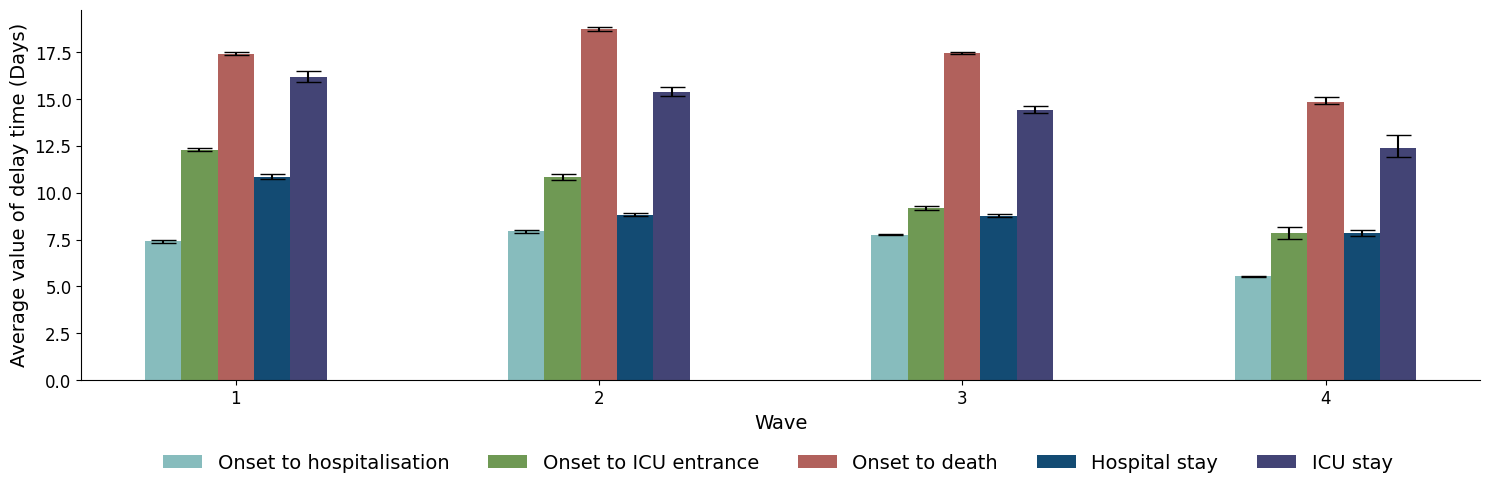
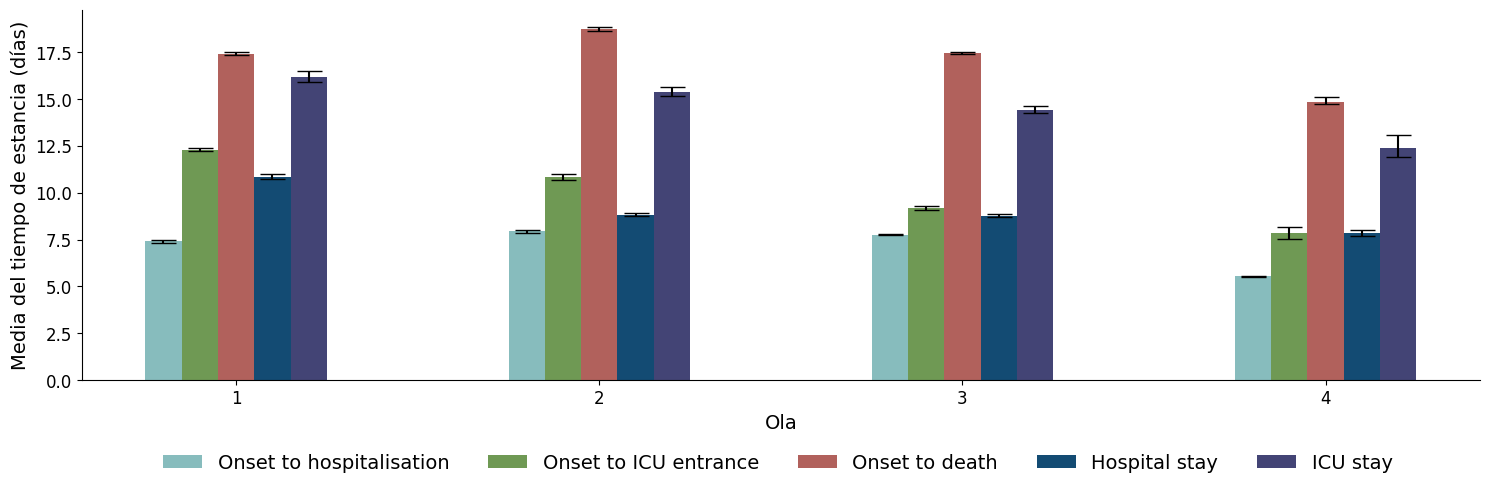
translate images from english to spanish

Changed region(s): [[0.0, 0.0306, 0.0618, 0.7653], [0.4943, 0.8265, 0.5561, 0.8878], [0.0309, 0.7653, 0.0618, 0.7959]]

diff --git a/plots/overview.py b/plots/overview.py
@@ -55,11 +55,11 @@ df_prop = pd.crosstab(index=df_confirmed_bogota['age_group'],
                             columns=df_confirmed_bogota['sex'],
                             normalize="index")*100                
 def plot_pyramid(ax):
-        hist_f = ax.barh(df_female['age_group'], -df_female['counts'], align='center', label='female')
-        hist_m = ax.barh(df_male['age_group'], df_male['counts'], align='center', label='male')
+        hist_f = ax.barh(df_female['age_group'], -df_female['counts'], align='center', label='mujeres')
+        hist_m = ax.barh(df_male['age_group'], df_male['counts'], align='center', label='hombres')
 
-        ax.bar_label(hist_m, labels=['{:.1f}%'.format(prop) for prop in df_prop['M'].round(1)], label_type='edge')
-        ax.bar_label(hist_f, labels=['{:.1f}%'.format(prop) for prop in df_prop['F'].round(1)], label_type='edge')
+        ax.bar_label(hist_m, labels=['{:.1f}%'.format(prop) for prop in df_prop['M'].round(1)], label_type='edge', fontsize = 9)
+        ax.bar_label(hist_f, labels=['{:.1f}%'.format(prop) for prop in df_prop['F'].round(1)], label_type='edge', fontsize = 9)
 
         ticks =  ax.get_xticks()
         ax.set_xticklabels([int(abs(tick)) for tick in ticks])
@@ -83,22 +83,22 @@ df_deaths_60p = ut.counts(df[mask_death & mask_60p], var='death',columns=['date'
 df_deaths_60p['deaths_cum'] = df_deaths_60p['deaths'].cumsum().values
 
 def plot_cases_death_cum(ax):
-        ln1 = ax.plot(df_cases_all['date'], df_cases_all['cases'], label='cases all')
-        ln2 = ax.plot(df_cases_60p['date'], df_cases_60p['cases'], label='cases 60+')
+        ln1 = ax.plot(df_cases_all['date'], df_cases_all['cases'], label='casos - todos')
+        ln2 = ax.plot(df_cases_60p['date'], df_cases_60p['cases'], label='casos - 60+')
 
         # fig, ax2 =plt.subplots(figsize=(7.5, 5))
         ax_twin = ax.twinx()
 
-        ln3 = ax_twin.plot(df_deaths_all['date'], df_deaths_all['deaths_cum'], label='cumulative deaths all', linestyle='dashed')
-        ln4 = ax_twin.plot(df_deaths_60p['date'], df_deaths_60p['deaths_cum'], label='cumulative deaths 60+', linestyle='dashed')
+        ln3 = ax_twin.plot(df_deaths_all['date'], df_deaths_all['deaths_cum'], label='fallecimientos acum - todos', linestyle='dashed')
+        ln4 = ax_twin.plot(df_deaths_60p['date'], df_deaths_60p['deaths_cum'], label='fallecimientos acum - 60+', linestyle='dashed')
 
         lns = ln1 + ln2 + ln3 + ln4
         labs = [l.get_label() for l in lns]
 
         ax.tick_params(axis='x', rotation=90)
-        ax.set_ylabel('Confirmed cases')
+        ax.set_ylabel('Casos confirmados')
 
-        ax_twin.legend(lns, labs, loc='upper left', frameon=False, fontsize=10)
+        ax_twin.legend(lns, labs, loc='upper left', frameon=False, fontsize=9)
         ax_twin.spines.right.set_visible(True) #This was set as False by default in the .mpstyle file
         ax_twin.tick_params(axis='x', rotation=90)
-        ax_twin.set_ylabel('Deaths')
+        ax_twin.set_ylabel('Fallecimientos')

diff --git a/plots/results_severe_outcomes.py b/plots/results_severe_outcomes.py
@@ -38,7 +38,7 @@ df_ratios = df_ratios[~df_ratios['age_group'].isin(['all'])].sort_values(by = ['
 # Auxiliar plot function
 def plot_xyvar(df, ax, n_strat, varx='age_group', vary='percentage'):
     data = df.loc[df[strat]==n_strat]
-    ax.plot(data[varx], data[vary], label=strat+str(n_strat), ls = '-', marker = ".", lw = 1)
+    ax.plot(data[varx], data[vary], label='ola '+str(n_strat), ls = '-', marker = ".", lw = 1)
 
 # Wave cases percentage distribution by age group
 def plot_percentage(ax):
@@ -54,8 +54,8 @@ def plot_counts(ax):
     strat_list = df_ratios[strat].unique()
     for axi in ax:
         axi.tick_params(axis='x', labelrotation=90)
-        axi.set_ylabel('cases')
-        axi.set_xlabel('age group')
+        axi.set_ylabel('casos')
+        axi.set_xlabel('grupo de edad')
     for wave in strat_list:
         plot_xyvar(df_ratios[[strat, 'age_group','hosp']], ax=ax[0], n_strat=wave, vary='hosp')
         plot_xyvar(df_ratios[[strat, 'age_group', 'icu']], ax=ax[1], n_strat=wave, vary='icu')
@@ -123,9 +123,9 @@ def plot_ratios(ax, var, var_name):
         ratio_upper = df_temp[var+'_upper'] - ratio
         yerr = np.array(list(zip(ratio_lower, ratio_upper))).T
         ax.errorbar(df_temp['age_group'], df_temp[var], yerr = yerr,
-                    fmt='o', color = colors[wave-1], label = 'wave '+str(wave),
+                    fmt='o', color = colors[wave-1], label = 'ola '+str(wave),
                     capsize = 5, ls = '-', marker = ".", lw = 1)
-    ax.set_xlabel('age group')
+    ax.set_xlabel('grupo de edad')
     ax.set_ylabel(var_name)
 
 # Plot variable with error bar
@@ -137,7 +137,7 @@ def plot_var_err(df, axi, var):
         data_upper = df_temp[var + '_upper'] - data
         yerr = np.array(list(zip(data_lower, data_upper))).T
         axi.errorbar(df_temp['age_group'], df_temp[var], yerr = yerr,
-                     fmt='o', color = colors[wave-1], label = 'wave '+str(wave),
+                     fmt='o', color = colors[wave-1], label = 'ola '+str(wave),
                      capsize = 5, ls = '-', marker = ".", lw = 1)
         
 # Plot percentages with erros

diff --git a/plots/results_waves.py b/plots/results_waves.py
@@ -47,21 +47,21 @@ df_counts['cases_gs_diff_gs'] = ut.gaussian_smoothing(df_counts, 'cases_gs_diff'
 # Function to plot waves figure
 def plot_waves(ax):
     # Confirmed cases curve
-    ln1 = ax.plot(df_counts['date'], df_counts['cases'], color = colors[0], label = 'confirmed cases')
+    ln1 = ax.plot(df_counts['date'], df_counts['cases'], color = colors[0], label = 'casos confirmados')
     ln2 = ax.plot(df_counts['date'], df_counts['cases_gs'], color= colors[2], ls = '--')
     date_no_dup = []
     for d in range(len(df_waves)):
             ax.axvline(x = df_waves['start_date'].iloc[d], color = 'black', alpha = 0.8, ls = '--')
             ax.axvline(x = df_waves['end_date'].iloc[d], color = 'black', alpha = 0.8, ls = '--')
             date_no_dup.append(d)
-    ax.set_ylabel('Confirmed cases')
+    ax.set_ylabel('Casos confirmados')
     # First difference plot
     ax2 = ax.twinx()
-    ln3 = ax2.plot(df_counts['date'],df_counts['cases_gs_diff'], colors[1], label = 'diff(confirmed cases)')
-    ln4 = ax2.plot(df_counts['date'],df_counts['cases_gs_diff_gs'], colors[2], ls = '--', label = 'gaussian smoothing')
+    ln3 = ax2.plot(df_counts['date'],df_counts['cases_gs_diff'], colors[1], label = 'diff(casos confirmados)')
+    ln4 = ax2.plot(df_counts['date'],df_counts['cases_gs_diff_gs'], colors[2], ls = '--', label = 'suavizamiento gaussiano')
 
     ax2.axhline(y = 0, color = 'black', alpha = 0.8, ls = '--')
-    ax2.set_ylabel('diff(Confirmed cases)')
+    ax2.set_ylabel('diff(Casos confirmados)')
     ax2.spines.right.set_visible(True) #This was set as False by default in the .mpstyle file
 
     ##Legend

diff --git a/plots/results_epidemiological_distributions.py b/plots/results_epidemiological_distributions.py
@@ -233,16 +233,16 @@ def plot_best_model_bar_all(dist, ax, w, n, wt=0.1):
            color = colors[n])
     ax.xaxis.set_major_locator(MaxNLocator(integer=True))
     #ax.set_yscale('log')
-    ax.set_ylabel('Average value of delay time (Days)')
-    ax.set_xlabel('Wave')
+    ax.set_ylabel('Media del tiempo de estancia (días)')
+    ax.set_xlabel('Ola')
     
 def plot_best_model_bar_outcome(wave, ax, w, wt=0.1):
     dist = ['onset_hosp', 'onset_icu', 'onset_death', 'hosp_stay', 'icu_stay']
-    xlabels= ['Onset to hospitalisation', 
-            'Onset to ICU entrance',
-            'Onset to death',
-            'Hospital stay',
-            'ICU stay']
+    xlabels= ['FIS - hospitalización', 
+            'FIS - ingreso UCI',
+            'FIS - fallecimiento',
+            'Estancia en hospitalización',
+            'Estancia en UCI']
     mean = []
     err = [[],[]]
     for d in dist:
@@ -259,6 +259,6 @@ def plot_best_model_bar_outcome(wave, ax, w, wt=0.1):
            color = colors[n])
     ax.xaxis.set_major_locator(MaxNLocator(integer=True))
     #ax.set_yscale('log')
-    ax.set_ylabel('Average value of delay time (Days)')
-    ax.set_xlabel('Epidemiological distribution')
+    ax.set_ylabel('Media del tiempos de estancia (días)')
+    ax.set_xlabel('Distribuciones epidemiológicas')
     ax.set_xticks([1,2,3,4,5], xlabels)

diff --git a/plots/results_genomics.py b/plots/results_genomics.py
@@ -61,11 +61,11 @@ def plot_multinomial(ax, limits):
         df_incidence_count = df_incidence_count.sort_values(by = 'week_date')
         
         l1 = ax.bar(df_incidence_count['week_date'], df_incidence_count['cases'], 
-               alpha = 0.3, color = "grey", width=5.3, label = 'Weekly new cases')
-        ax.set_ylabel('Incidence')
+               alpha = 0.3, color = "grey", width=5.3, label = 'Casos nuevos semanales')
+        ax.set_ylabel('Incidencia')
         ax.tick_params(axis='x', rotation=90)
         ax.xaxis.set_major_locator(plt.MaxNLocator(n_ticks))
-        labs = ['Weekly new cases'] 
+        labs = ['Casos nuevos semanales'] 
         
         # Prevalence - Observed        
         ax1 = ax.twinx()
@@ -168,7 +168,7 @@ def plot_multinomial(ax, limits):
         ax1.tick_params(axis='x', rotation=90)
         ax1.xaxis.set_major_locator(plt.MaxNLocator(n_ticks))
         ax1.spines.right.set_visible(True)
-        ax1.set_ylabel('Prevalence', rotation = 270, labelpad = 15)
+        ax1.set_ylabel('Prevalencia', rotation = 270, labelpad = 15)
         
         handles = ax.containers + ax1.get_lines()
         labels1, handles1 = ax1.get_legend_handles_labels()

diff --git a/plots/individual_plots.py b/plots/individual_plots.py
@@ -67,8 +67,8 @@ import overview as overview
 fig, ax = plt.subplots(figsize=(7.5, 5))
 overview.plot_pyramid(ax)
 ax.set_xlim(left=-260000)
-ax.set_xlabel('Cases')
-ax.set_ylabel('Age group')
+ax.set_xlabel('Casos')
+ax.set_ylabel('Grupo de edad')
 ax.legend()     
 fig.savefig(FIG_PATH + 'population_pyramid.png')
 
@@ -184,12 +184,12 @@ import results_severe_outcomes as results_severe_outcomes
 
 fig, ax = plt.subplots(1, 3, figsize=(15, 5))
 results_severe_outcomes.plot_percentage_err(ax)
-ax[0].set_ylabel('Hospitalization percentage by age-group')
-ax[1].set_ylabel('ICU percentage by age-group')
-ax[2].set_ylabel('Deaths percentage by age-group')
+ax[0].set_ylabel('Porcentaje de ingreso hospitalización')
+ax[1].set_ylabel('Porcentaje de ingreso a UCI')
+ax[2].set_ylabel('Porcentaje de fallecidos')
 for axi in ax:
     axi.tick_params(axis='x', labelrotation=90)
-    axi.set_xlabel('Age group')
+    axi.set_xlabel('Grupo de edad')
 ax[0].set_title('a.')
 ax[1].set_title('b.')
 ax[2].set_title('c.')

diff --git a/plots/figure_3.py b/plots/figure_3.py
@@ -48,14 +48,14 @@ ax[1][2].set_title('e.')
 
 ax[0][1].set_xlabel('')
 ax[0][2].set_xlabel('')
-ax[1][0].set_xlabel('Age group')
-ax[1][1].set_xlabel('Age group')
-ax[1][2].set_xlabel('Age group')
+ax[1][0].set_xlabel('Grupo de edad')
+ax[1][1].set_xlabel('Grupo de edad')
+ax[1][2].set_xlabel('Grupo de edad')
 
-ax[0][1].set_ylabel('Hospitalisation Case Ratio')
-ax[0][2].set_ylabel('ICU Case Ratio')
-ax[1][0].set_ylabel('Case Fatality Ratio')
-ax[1][1].set_ylabel('Hospitalisation Fatality Ratio')
-ax[1][2].set_ylabel('ICU Fatality Ratio')
+ax[0][1].set_ylabel('Tasa de casos hospitalizados')
+ax[0][2].set_ylabel('Tasa de casos UCI')
+ax[1][0].set_ylabel('Tasa de mortalidad')
+ax[1][1].set_ylabel('Tasa de mortalidad hospitalaria')
+ax[1][2].set_ylabel('Tasa de mortalidad ICU')
 
 fig.savefig(FIG_PATH + 'figure_3.png')

diff --git a/plots/figure_4.py b/plots/figure_4.py
@@ -28,12 +28,12 @@ plt.rcParams["savefig.pad_inches"] = 0.4
 results_severe_outcomes.plot_percentage(ax)
 # results_severe_outcomes.plot_percentage_err(ax)
 
-ax[0].set_ylabel('Hospitalization percentage by age-group')
-ax[1].set_ylabel('ICU percentage by age-group')
-ax[2].set_ylabel('Deaths percentage by age-group')
+ax[0].set_ylabel('Porcentaje de ingreso a hospitalización')
+ax[1].set_ylabel('Porcentaje de ingreso a UCI')
+ax[2].set_ylabel('Porcentaje de fallecidos')
 for axi in ax:
     axi.tick_params(axis='x', labelrotation=90)
-    axi.set_xlabel('Age group')
+    axi.set_xlabel('Grupo de edad')
 ax[0].set_title('a.')
 ax[1].set_title('b.')
 ax[2].set_title('c.')

diff --git a/plots/figure_1.py b/plots/figure_1.py
@@ -32,8 +32,8 @@ axi.set_title('a.')
 axi = ax[0][1]
 overview.plot_pyramid(ax = axi)
 axi.set_xlim(left=-270000)
-axi.set_xlabel('Cases')
-axi.set_ylabel('Age group')
+axi.set_xlabel('Casos')
+axi.set_ylabel('Grupo de edad')
 axi.set_title('b.')
 axi.legend(loc = 'upper left')  
 
@@ -50,7 +50,7 @@ axi = ax[1][1]
 results_genomics.plot_prevalence(ax = axi)
 axi.tick_params(axis = 'x', rotation = 90)
 axi.set_xlabel('')
-axi.set_ylabel('Prevalence')
+axi.set_ylabel('Prevalencia')
 axi.set_title('d.', loc = 'left')
 
 fig.savefig(FIG_PATH + 'figure_1.png')

diff --git a/plots/results_rt.py b/plots/results_rt.py
@@ -31,7 +31,7 @@ df_rt_60p['window_end'] = pd.to_datetime(df_rt_60p['window_end'])
 
 # Instantaneous reproduction number R(t) plot
 def plot_rt(ax):    
-    ln1 = ax.plot(df_rt_all['window_end'], df_rt_all['Mean(R)'], color=colors[4], label = 'all')
+    ln1 = ax.plot(df_rt_all['window_end'], df_rt_all['Mean(R)'], color=colors[4], label = 'todos')
     ln2 = ax.plot(df_rt_60p['window_end'], df_rt_60p['Mean(R)'], color=colors[1], label = '60+')
     ax.axhline(y=1, color='black', linestyle='--', linewidth=3)
 

diff --git a/plots/figure_5.py b/plots/figure_5.py
@@ -30,10 +30,10 @@ red.plot_best_model_bar_outcome(2, ax, w = - 0.05)
 red.plot_best_model_bar_outcome(3, ax, w =  0.05)
 red.plot_best_model_bar_outcome(4, ax, w =  0.15)
 
-leglabels= ['Wave 1',
-            'Wave 2',
-            'Wave 3',
-            'Wave 4',
+leglabels= ['ola 1',
+            'ola 2',
+            'ola 3',
+            'ola 4',
            ]
 ax.legend(leglabels, bbox_to_anchor=(0.75, -0.15), ncol=5)
 fig.savefig(FIG_PATH + 'figure_5_v0.png')
